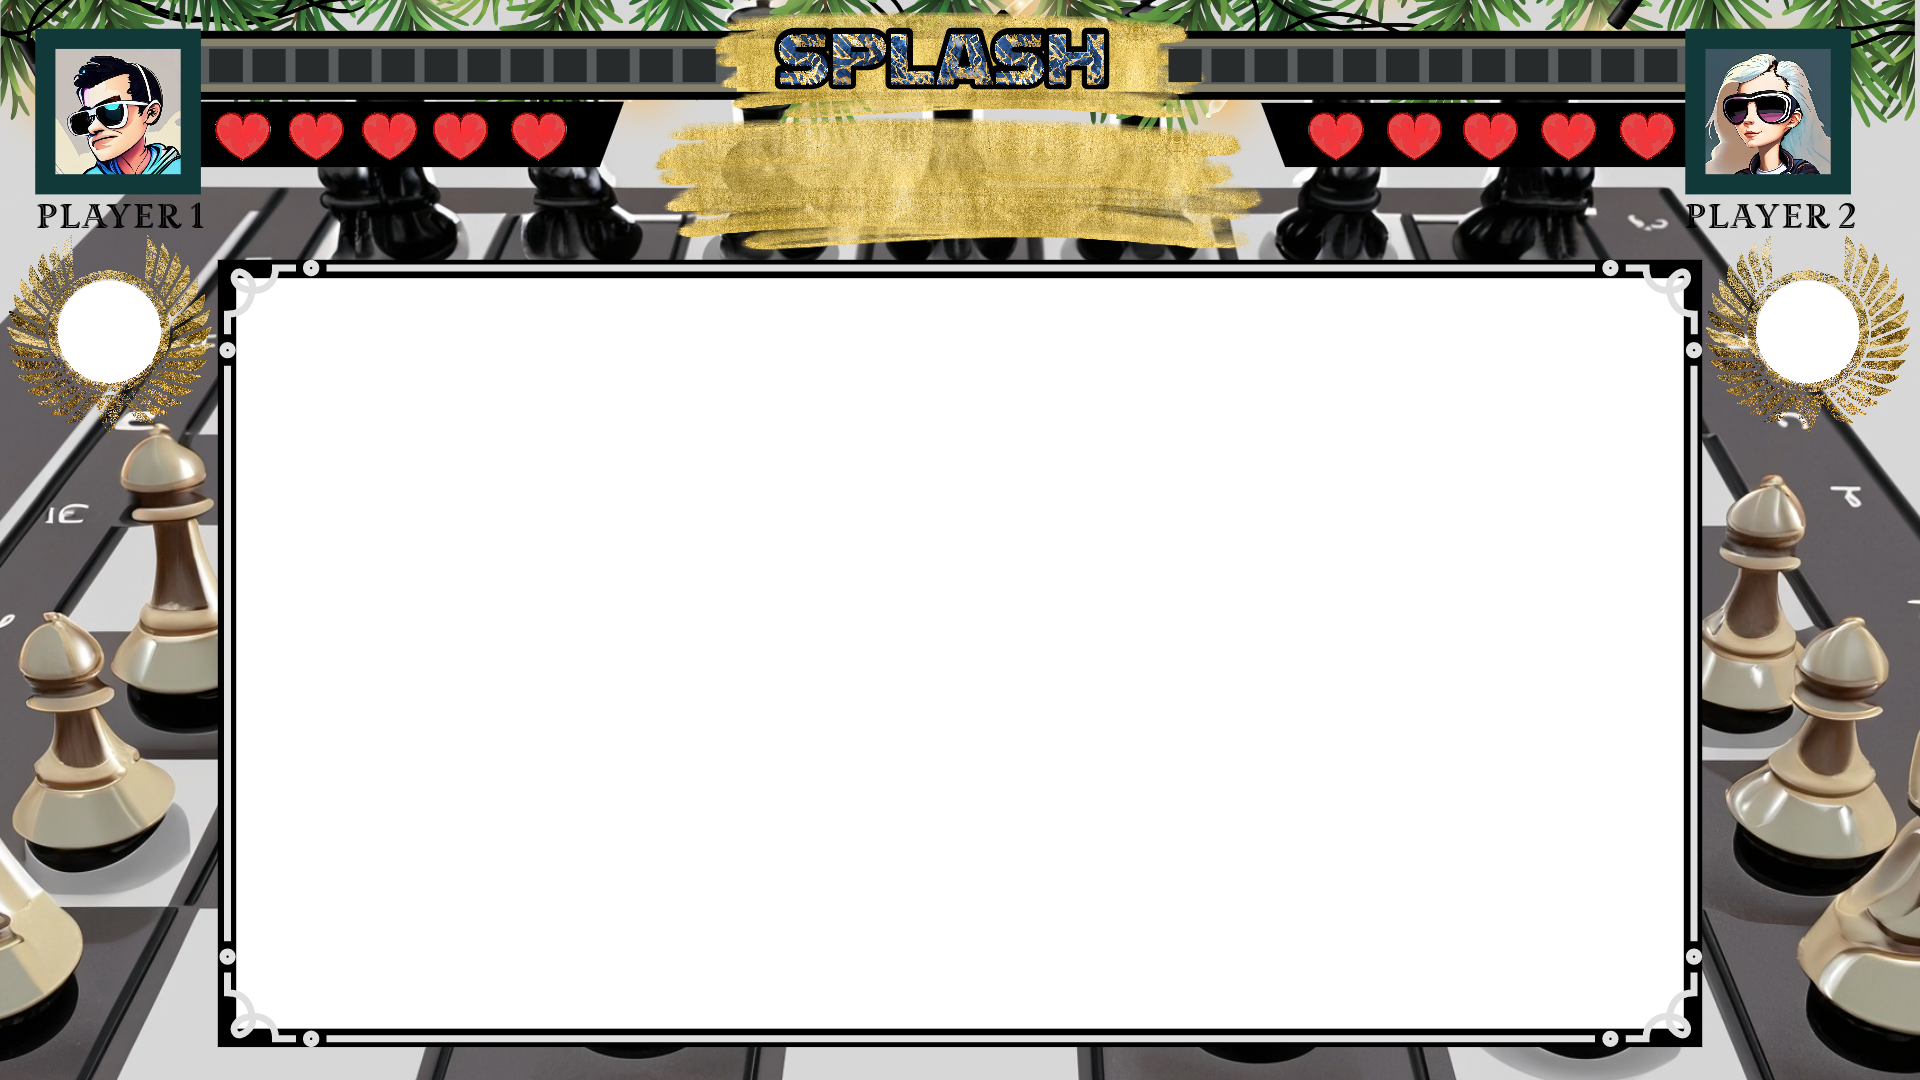
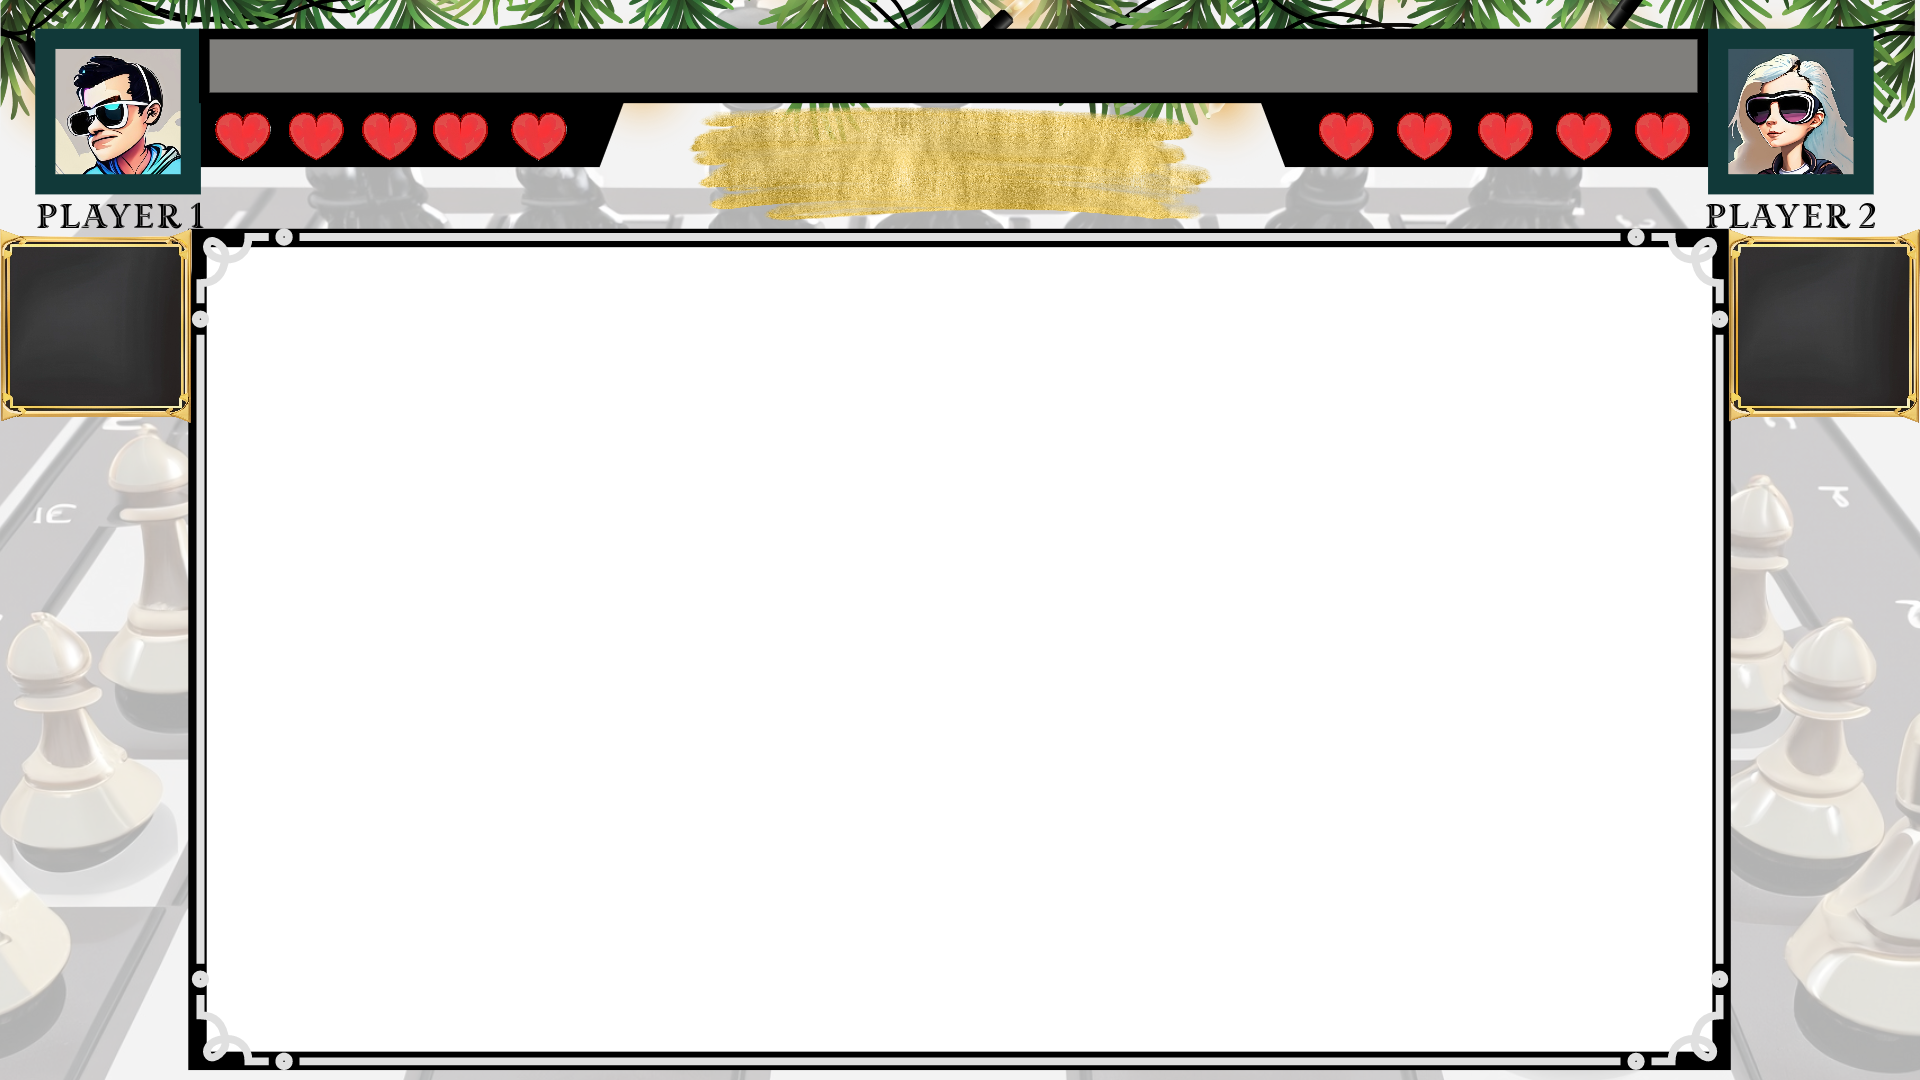
[feat] 준수님 ui 수정 반영

diff --git a/src/tt.js b/src/tt.js
@@ -1,4 +1,5 @@
 class UI {
+  /*
   // player1, player2는 모두 player class를 상속받은 객체여야 합니다!
   constructor(args) {
     this.player1 = args.player1;
@@ -9,18 +10,9 @@ class UI {
     this.player1DeadTime = 0;
     this.player2DeadTime = 0;
 
-    this.tutorialBoxWidth = (this.canvasWidth / 100) * 43;
-    this.tutorialBoxHeight = (this.canvasHeight / 100) * 75;
-
-    this.tutorialBoxBottomOffset = (this.canvasHeight / 100) * 9.5;
-    this.tutorialBoxTopOffset = (this.canvasHeight / 100) * 20;
-    this.tutorialBoxWideOffset = (this.canvasWidth / 100) * 54.7;
-    this.tutorialBoxNarrowOffset = (this.canvasWidth / 100) * 2.7;
-
     this.UIHeight = (this.canvasHeight / 100) * 20;
     this.horizontalGridOffset = (this.canvasWidth / 100) * 11;
     this.verticalGridOffset = (this.canvasHeight / 100) * 3;
-
     this.playerLifeUIOffset = (this.canvasWidth / 100) * 14;
     this.playerLifeUIheight = (this.canvasHeight / 100) * 13;
 
@@ -52,7 +44,7 @@ class UI {
   drawSelectCharacterScreen() {}
 
   drawTutorialScreen() {}
-
+*/
   drawMainGameScreen(inkAreaRatio, countdown) {
     textAlign(CENTER, CENTER);
     push();
@@ -66,19 +58,19 @@ class UI {
     push();
     // display the percentage of pink pixels
     textAlign(CENTER, CENTER);
-    textSize(55);
+    textSize(85);
     textStyle(BOLD);
     fill(255);
     text(
-      round(inkAreaRatio) + "%", //정수값으로 도출
+      round(inkAreaRatio), //정수값으로 도출
       this.canvasWidth / 19.2,
-      this.canvasHeight / 3.2
+      this.canvasHeight / 3.3
     );
     fill(255);
     text(
-      100 - round(inkAreaRatio) + "%",
+      100 - round(inkAreaRatio),
       (18 * this.canvasWidth) / 19,
-      this.canvasHeight / 3.2
+      this.canvasHeight / 3.3
     );
 
     pop();
@@ -86,19 +78,23 @@ class UI {
     // item slot
     push();
     fill(255);
-    rect(this.itemUIOffset, this.itemUIheight, 100, 100);
-    rect(this.canvasWidth - this.itemUIOffset, this.itemUIheight, 100, 100);
+    rect(this.itemUIOffset, this.itemUIheight * 0.9, 95, 95); //크기 조정
+    rect(this.canvasWidth - this.itemUIOffset, this.itemUIheight * 0.9, 95, 95);
     fill(0);
     noStroke();
     textSize(20);
-    text("Item slot", this.itemUIOffset, this.itemUIheight);
-    text("Item slot", this.canvasWidth - this.itemUIOffset, this.itemUIheight);
+    text("Item slot", this.itemUIOffset, this.itemUIheight * 0.9);
+    text(
+      "Item slot",
+      this.canvasWidth - this.itemUIOffset,
+      this.itemUIheight * 0.9
+    );
     textSize(15);
-    text("press T", this.itemUIOffset, this.itemUIheight + 20);
+    text("press T", this.itemUIOffset, this.itemUIheight * 0.9 + 20);
     text(
       "Press P",
       this.canvasWidth - this.itemUIOffset,
-      this.itemUIheight + 20
+      this.itemUIheight * 0.9 + 20
     );
 
     pop();
@@ -106,16 +102,17 @@ class UI {
     push();
     rectMode(LEFT);
     rect(
-      this.itemTooltipUiOffset,
-      this.itemTooltipUiHeight,
-      UI.itemTooltipUiRectWidth,
-      UI.itemTooltipUiRectHeight
+      //위치조정
+      this.itemTooltipUiOffset * 0.98,
+      this.itemTooltipUiHeight * 0.97,
+      UI.itemTooltipUiRectWidth * 0.8,
+      UI.itemTooltipUiRectHeight * 0.97
     );
     rect(
-      this.canvasWidth - this.itemTooltipUiOffset,
-      this.itemTooltipUiHeight,
-      UI.itemTooltipUiRectWidth,
-      UI.itemTooltipUiRectHeight
+      this.canvasWidth - this.itemTooltipUiOffset * 1.08,
+      this.itemTooltipUiHeight * 0.97,
+      UI.itemTooltipUiRectWidth * 0.8,
+      UI.itemTooltipUiRectHeight * 0.97
     );
     pop();
 
@@ -175,49 +172,87 @@ class UI {
       pop();
     }
 
-    //점수계산
-    // for (let i = 0; i < 600; i = i + 50) {
-    //   push();
-    //   fill(0);
-    //   rectMode(CENTER);
-    //   rect(
-    //     this.canvasWidth / 8.6 + i * (this.canvasWidth / 2211),
-    //     (2.3 * this.playerLifeUIheight) / 5,
-    //     this.canvasWidth * 0.018,
-    //     (1.2 * this.playerLifeUIheight) / 5
-    //   );
-    //   fill(30, 130, 130);
-    //   rectMode(CENTER);
-    //   rect(
-    //     this.canvasWidth / 8.6 + i * (this.canvasWidth / 2211),
-    //     (2.3 * this.playerLifeUIheight) / 5,
-    //     this.canvasWidth * 0.015,
-    //     (1.1 * this.playerLifeUIheight) / 5
-    //   );
-    //   pop();
-    // }
+    //점수계산 -> 주석 처리 된 부분은 제거(이산적인 계산)
+    /*
+    for (let i = 0; i < 2300; i = i + 50) {
+      push();
+      fill(0);
+      rectMode(CENTER);
+      rect(
+        this.canvasWidth / 8.55 + i * (this.canvasWidth / 3000),
+        (2.355 * this.playerLifeUIheight) / 5,
+        this.canvasWidth * 0.013,
+        (1.655 * this.playerLifeUIheight) / 5
+      );
+      fill(55, 250, 230);
+      rectMode(CENTER);
+      rect(
+        this.canvasWidth / 8.55 + i * (this.canvasWidth / 3000),
+        (2.355 * this.playerLifeUIheight) / 5,
+        this.canvasWidth * 0.0095,
+        (1.3 * this.playerLifeUIheight) / 5
+      );
+      pop();
+    }
 
-    // for (let i = 0; i < 600; i = i + 50) {
-    //   push();
-    //   fill(0);
-    //   rectMode(CENTER);
-    //   rect(
-    //     this.canvasWidth / 1.624 + i * (this.canvasWidth / 2211),
-    //     (2.3 * this.playerLifeUIheight) / 5,
-    //     this.canvasWidth * 0.0199,
-    //     (1.2 * this.playerLifeUIheight) / 5
-    //   );
-    //   fill(90, 50, 120);
-    //   rectMode(CENTER);
-    //   rect(
-    //     this.canvasWidth / 1.624 + i * (this.canvasWidth / 2211),
-    //     (2.3 * this.playerLifeUIheight) / 5,
-    //     this.canvasWidth * 0.016,
-    //     (1.1 * this.playerLifeUIheight) / 5
-    //   );
-    //   pop();
-    // }
+    for (let i = 0; i < 1150; i = i + 50) {
+      push();
+      fill(0);
+      rectMode(CENTER);
+      rect(
+        this.canvasWidth / 8.55 + i * (this.canvasWidth / 3000),
+        (2.355 * this.playerLifeUIheight) / 5,
+        this.canvasWidth * 0.013,
+        (1.655 * this.playerLifeUIheight) / 5
+      );
+      fill(90, 50, 120);
+      rectMode(CENTER);
+      rect(
+        this.canvasWidth / 8.55 + i * (this.canvasWidth / 3000),
+        (2.355 * this.playerLifeUIheight) / 5,
+        this.canvasWidth * 0.0095,
+        (1.3 * this.playerLifeUIheight) / 5
+      );
+      pop();
+    }
 
+    //offense advantage
+    for (
+      let i = 2250;
+      i >= (2300 * (inkAreaRatio.toFixed(0))) / 100;
+      i = i - 50
+    ) {
+      push();
+      fill(250,205,65);
+      rectMode(CENTER);
+      rect(
+        this.canvasWidth / 8.55 + i * (this.canvasWidth / 3000),
+        (2.355 * this.playerLifeUIheight) / 5,
+        this.canvasWidth * 0.0095,
+        (1.3 * this.playerLifeUIheight) / 5
+      );
+      pop();
+    }
+
+    for (
+      let i = 0;
+      i <= ((2300 * inkAreaRatio.toFixed(0)) / 100 - 1150);
+      i = i + 50
+    ) {
+      push();
+      fill(55, 250, 230);
+      rectMode(CENTER);
+      rect(
+        this.canvasWidth / 8.55 + i * (this.canvasWidth / 3000),
+        (2.355 * this.playerLifeUIheight) / 5,
+        this.canvasWidth * 0.0095,
+        (1.3 * this.playerLifeUIheight) / 5
+      );
+      pop();
+    }
+
+*/
+    //CHANGES
     push();
     noStroke();
     fill(25, 233, 250);
@@ -257,40 +292,7 @@ class UI {
 
     pop();
 
-    //offense advantage
-    // for (
-    //   let i = 550;
-    //   i >= (600 * (2 * inkAreaRatio.toFixed(0))) / 100;
-    //   i = i - 50
-    // ) {
-    //   push();
-    //   fill(90, 50, 120);
-    //   rectMode(CENTER);
-    //   rect(
-    //     this.canvasWidth / 8.6 + i * (this.canvasWidth / 2211),
-    //     (2.3 * this.playerLifeUIheight) / 5,
-    //     this.canvasWidth * 0.015,
-    //     (1.1 * this.playerLifeUIheight) / 5
-    //   );
-    //   pop();
-    // }
-
-    // for (
-    //   let i = 0;
-    //   i <= ((600 * inkAreaRatio.toFixed(0)) / 100 - 300) * 2;
-    //   i = i + 50
-    // ) {
-    //   push();
-    //   fill(30, 130, 130);
-    //   rectMode(CENTER);
-    //   rect(
-    //     this.canvasWidth / 1.624 + i * (this.canvasWidth / 2211),
-    //     (2.3 * this.playerLifeUIheight) / 5,
-    //     this.canvasWidth * 0.016,
-    //     (1.1 * this.playerLifeUIheight) / 5
-    //   );
-    //   pop();
-    // }
+    /*
 
     // attacker 죽었을때 부활까지 남은 시간 표시
     if (this.player1.isDead) {
@@ -312,7 +314,7 @@ class UI {
       // 죽은 시간 초기화해줌
       this.player1DeadTime = 0;
     }
-
+*/
     // defender 죽었을때 부활까지 남은 시간 표시
     if (this.player2.isDead) {
       if (this.player2DeadTime === 0) {
@@ -326,7 +328,7 @@ class UI {
       text(
         UI.playerRespawnComment +
           this.calculateRespawnLeftTime(this.player2DeadTime),
-        width - this.playerLifeUIOffset,
+        (width - this.playerLifeUIOffset) * 1.03, //위치조정
         this.playerLifeUIheight
       );
       pop();
@@ -334,7 +336,6 @@ class UI {
       this.player2DeadTime = 0;
     }
   }
-
   drawGameItemImage(itemImage) {
     let x = width / 2 - itemImage.width / 4;
     let y = height / 2 - itemImage.height / 4;
@@ -343,12 +344,11 @@ class UI {
 
     image(itemImage, x, y, smallerWidth, smallerHeight);
   }
-
   drawItemSlotImage(itemImage, isAttacker) {
     let x = isAttacker
       ? this.itemUIOffset
       : this.canvasWidth - this.itemUIOffset;
-    let y = this.itemUIheight; //위치조정
+    let y = this.itemUIheight * 0.9; //위치조정
 
     push();
     imageMode(CENTER);
@@ -366,11 +366,11 @@ class UI {
       ? this.itemTooltipUiOffset
       : this.canvasWidth - this.itemTooltipUiOffset;
     let textY = this.itemTooltipUiHeight;
-    text(`${itemType}획득!!`, textX * 0.98, textY); //위치조정
+    text(`${itemType}획득!!`, textX * 0.98, textY * 0.97); //위치조정
     pop();
   }
-
+  /*
   drawGameResultScreen(winnerImage) {
     image(winnerImage, 0, 0, this.canvasWidth, this.canvasHeight);
-  }
+  }*/
 }

diff --git a/src/system/GameManager.js b/src/system/GameManager.js
@@ -23,7 +23,7 @@ class GameManager {
   }
 
   static gameCountDownSec = 120;
-  static randomItemDisplayInterval = 8000;
+  static randomItemDisplayInterval = 5000;
   static randomItemDisplayDuration = 5000;
   static calculateInkAreaRatioInterval = 5000;
 

diff --git a/src/sketch.js b/src/sketch.js
@@ -65,7 +65,7 @@ function setup() {
     pg,
   });
 
-  system.changePhase(System.PHASE.TUTORIAL);
+  system.changePhase(System.PHASE.MAIN_GAME);
 
   itemManager = new ItemManager({ player1, player2 });
   ui = new UI({ player1, player2, width, height });
